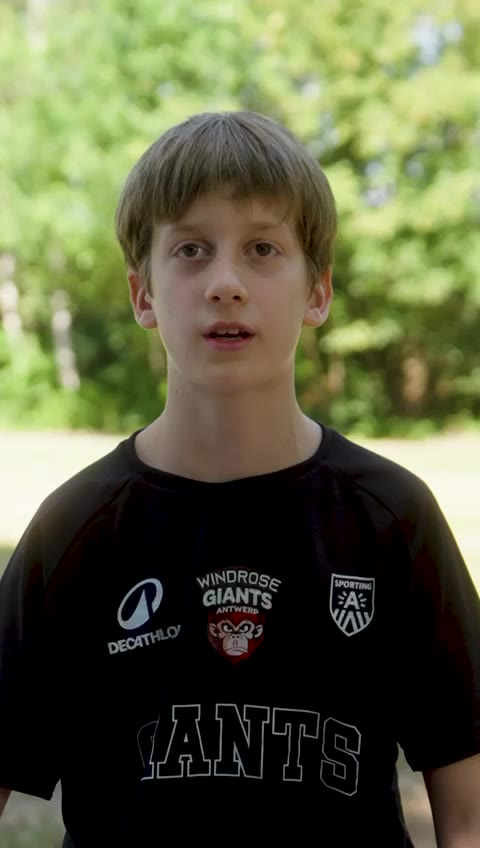
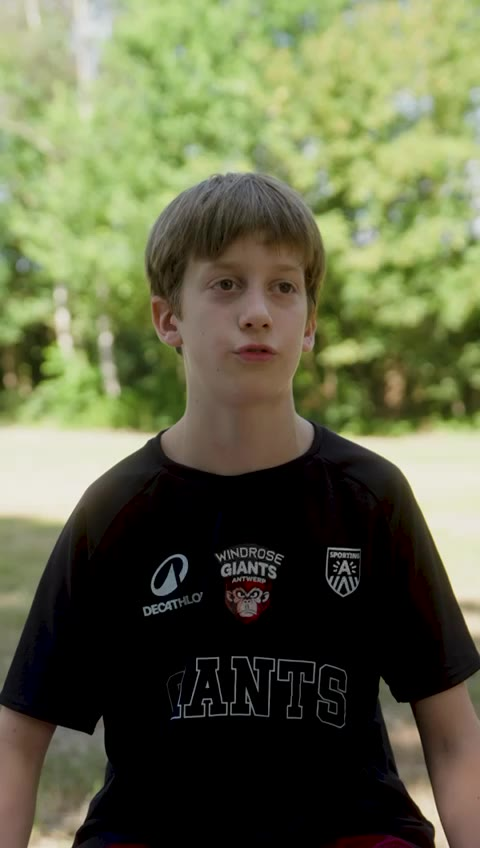
Pick the poster frames by hand instead of by timestamp
The first pass grabbed a still at a fixed offset, which landed mid-sentence on
three of the four clips: open mouth, half-closed eyes. Swept every third second
of each master, reviewed the frames, and picked the moment where the
participant is looking at the camera with a settled expression — 14s, 38s, 5s
and 8s respectively.

tools/process_client_video.py gains a --posters flag so a still can be
re-picked without re-encoding the video, which is the slow part.

diff --git a/tools/process_client_video.py b/tools/process_client_video.py
@@ -18,6 +18,7 @@ visitor presses play. Masters move out of the publish directory.
 import pathlib
 import shutil
 import subprocess
+import sys
 
 import imageio_ffmpeg
 
@@ -28,12 +29,19 @@ MASTERS = ROOT / "brief/video-masters"
 FF = imageio_ffmpeg.get_ffmpeg_exe()
 
 # source -> (slug, poster timestamp in seconds)
+#
+# The poster is picked by hand from a frame sweep, not taken from an arbitrary
+# offset: the first pass landed mid-sentence on three of the four, so the child
+# was caught with an open mouth and half-closed eyes. These four are the frames
+# where the participant is looking at the camera with a settled expression.
 CLIPS = [
-    ("WhatsApp Video 2026-08-31 at 15.44.41 2.mp4", "deelnemer-01", 15),
-    ("WhatsApp Video 2026-08-31 at 15.44.43 2.mp4", "deelnemer-02", 15),
-    ("WhatsApp Video 2026-08-31 at 15.44.46 2.mp4", "deelnemer-03", 8),
+    ("WhatsApp Video 2026-08-31 at 15.44.41 2.mp4", "deelnemer-01", 14),
+    ("WhatsApp Video 2026-08-31 at 15.44.43 2.mp4", "deelnemer-02", 38),
+    ("WhatsApp Video 2026-08-31 at 15.44.46 2.mp4", "deelnemer-03", 5),
     ("WhatsApp Video 2026-08-31 at 15.44.47 2.mp4", "deelnemer-04", 8),
 ]
+
+POSTERS_ONLY = "--posters" in sys.argv   # re-pick a still without re-encoding
 
 
 def run(args):
@@ -59,13 +67,18 @@ def main():
         jpg = OUT / f"{slug}.jpg"
 
         # H.264 for reach, VP9 for weight; mono audio at speech bitrate
-        run(["-i", str(src), "-c:v", "libx264", "-crf", "28", "-preset", "slow",
+        if not POSTERS_ONLY:
+            run(["-i", str(src), "-c:v", "libx264", "-crf", "28", "-preset", "slow",
              "-profile:v", "high", "-pix_fmt", "yuv420p", "-movflags", "+faststart",
              "-c:a", "aac", "-b:a", "64k", "-ac", "1", str(mp4)])
-        run(["-i", str(src), "-c:v", "libvpx-vp9", "-crf", "36", "-b:v", "0",
-             "-row-mt", "1", "-c:a", "libopus", "-b:a", "48k", "-ac", "1", str(webm)])
+        if not POSTERS_ONLY:
+            run(["-i", str(src), "-c:v", "libvpx-vp9", "-crf", "36", "-b:v", "0",
+                 "-row-mt", "1", "-c:a", "libopus", "-b:a", "48k", "-ac", "1", str(webm)])
         run(["-ss", str(poster_at), "-i", str(src), "-frames:v", "1", "-q:v", "3", str(jpg)])
 
+        if POSTERS_ONLY:
+            print(f"  {slug}: poster re-picked at {poster_at}s")
+            continue
         out_bytes = mp4.stat().st_size + webm.stat().st_size + jpg.stat().st_size
         total_out += out_bytes
         print(f"  {slug}: {src.stat().st_size/1e6:.1f} MB -> "
